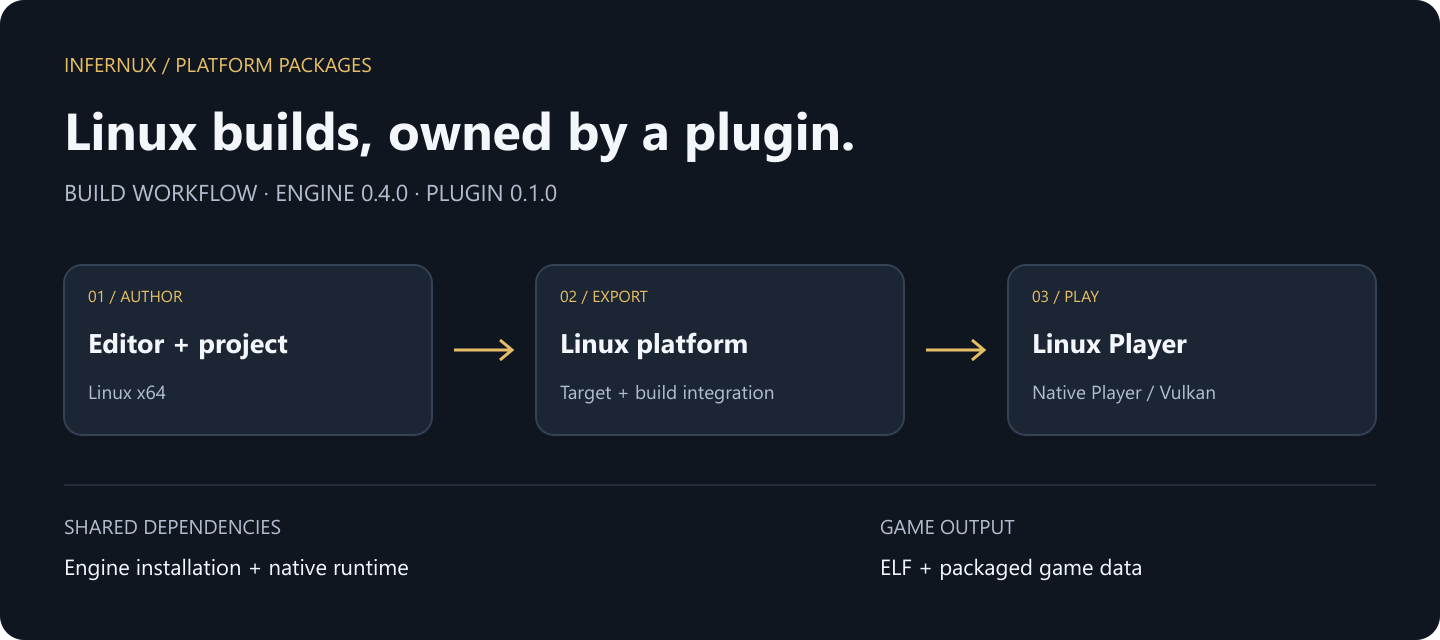
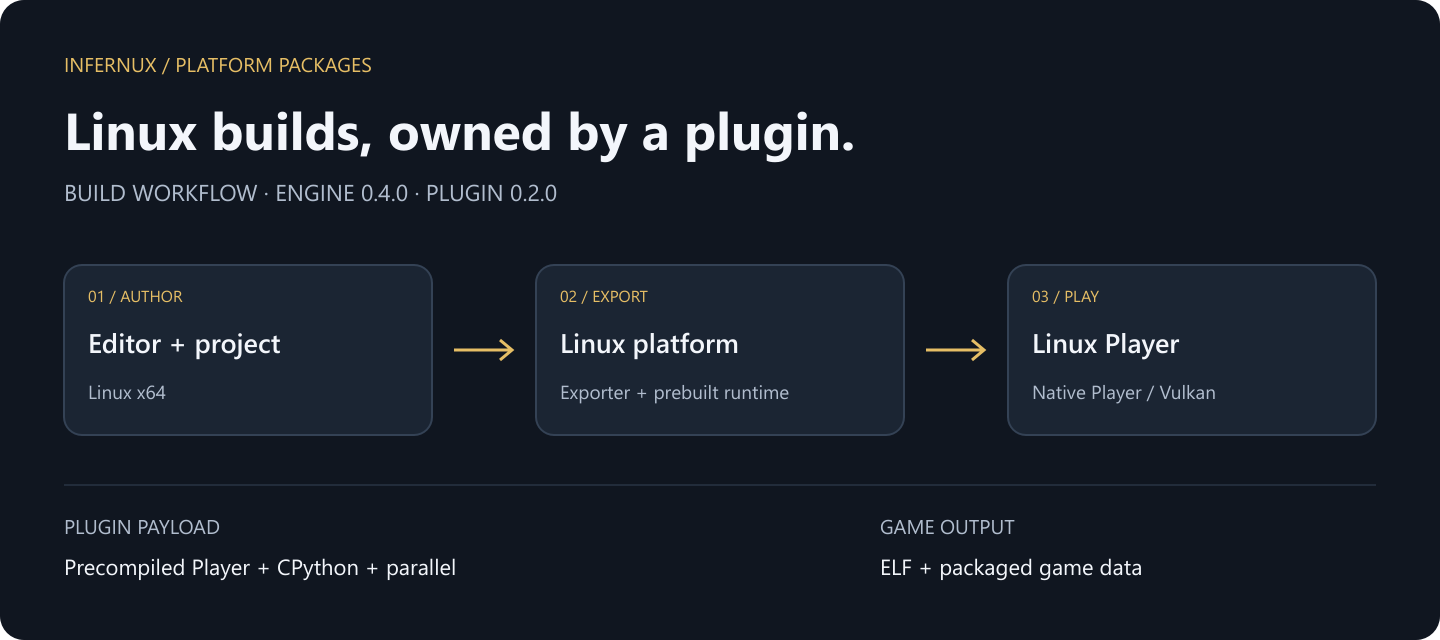
Ship CMake-owned precompiled Linux Player in platform package

diff --git a/release.py b/release.py
@@ -8,13 +8,43 @@ from pathlib import Path
 
 import package
 
+RUNTIME_ENGINE_VERSION = "0.4.0"
 
-def build_release(tag: str, output: Path | None = None) -> tuple[Path, Path]:
+
+def player_payload() -> tuple[Path, tuple[str, ...]]:
+    """Require the complete CMake-built payload before publishing a release."""
+    root = Path(__file__).resolve().parent
+    platform = json.loads((root / "package/inx_package.json").read_text(encoding="utf-8"))["reference"].rsplit("-", 1)[1]
+    payload = root / "package/editor" / f"infernux_{platform}" / "player"
+    document = json.loads((payload / "Player.inxmanifest").read_text(encoding="utf-8"))
+    expected = {
+        "engine_version": RUNTIME_ENGINE_VERSION,
+        "python_abi": "cp313",
+        "platform": "win32" if platform == "windows" else "linux",
+        "distribution": "platform-plugin",
+    }
+    if any(document.get(key) != value for key, value in expected.items()) or (
+        str(document.get("machine", "")).casefold() not in {"amd64", "x86_64"}
+    ):
+        raise ValueError("Player payload does not match the platform plugin's engine/ABI contract")
+    host = "InfernuxPlayerHost.exe" if platform == "windows" else "InfernuxPlayerHost"
+    for name, magic in (("Runtime.inxrt", b"INXPKG\0\0"), ("Parallel.inxmod", b"INXPKG\0\0"),
+                        (host, b"MZ" if platform == "windows" else b"\x7fELF")):
+        with (payload / name).open("rb") as source:
+            if source.read(len(magic)) != magic:
+                raise ValueError(f"Invalid precompiled Player payload: {name}")
+    return payload, ("Player.inxmanifest", "Runtime.inxrt", "Parallel.inxmod", host)
+
+
+def build_release(tag: str | None = None, output: Path | None = None) -> tuple[Path, Path]:
     root = Path(__file__).resolve().parent
     metadata = json.loads((root / "package/inx_package.json").read_text(encoding="utf-8"))
     expected = f"v{metadata['version']}"
+    if tag is None:
+        tag = expected
     if tag != expected:
         raise ValueError(f"Release tag must match package version: {expected}")
+    player_payload()
     destination = output if output is not None else root / "dist"
     destination.mkdir(parents=True, exist_ok=True)
     stem = metadata["reference"].replace("/", ".")
@@ -35,7 +65,7 @@ def build_release(tag: str, output: Path | None = None) -> tuple[Path, Path]:
 
 if __name__ == "__main__":
     parser = argparse.ArgumentParser(description=__doc__)
-    parser.add_argument("tag", help="v followed by package/inx_package.json version")
+    parser.add_argument("tag", nargs="?", help="v followed by package/inx_package.json version")
     arguments = parser.parse_args()
     for path in build_release(arguments.tag):
         print(path)

diff --git a/tests/test_release.py b/tests/test_release.py
@@ -4,11 +4,53 @@ import json
 from pathlib import Path
 import tempfile
 import unittest
+import shutil
+from unittest.mock import patch
 
 import release
 
 
 class ReleaseTests(unittest.TestCase):
+    def setUp(self):
+        self.workspace = tempfile.TemporaryDirectory()
+        self.addCleanup(self.workspace.cleanup)
+        self.root = Path(self.workspace.name) / "repository"
+        source = Path(__file__).resolve().parents[1]
+        shutil.copytree(source / "package", self.root / "package", ignore=shutil.ignore_patterns("player"))
+        self.payload = self.root / "package/editor/infernux_linux/player"
+        self.payload.mkdir()
+        (self.payload / "Player.inxmanifest").write_text(json.dumps({
+            "engine_version": release.RUNTIME_ENGINE_VERSION, "python_abi": "cp313",
+            "platform": "linux", "machine": "x86_64", "distribution": "platform-plugin",
+        }), encoding="utf-8")
+        for name in ("Runtime.inxrt", "Parallel.inxmod"):
+            (self.payload / name).write_bytes(b"INXPKG\0\0fixture")
+        (self.payload / "InfernuxPlayerHost").write_bytes(b"\x7fELFfixture")
+        for module in (release, release.package):
+            override = patch.object(module, "__file__", str(self.root / Path(module.__file__).name))
+            override.start()
+            self.addCleanup(override.stop)
+
+    def test_release_rejects_exporter_only_package(self):
+        (self.payload / "Runtime.inxrt").unlink()
+        with self.assertRaises(FileNotFoundError):
+            release.build_release("v0.2.0")
+        self.assertFalse((self.root / "dist").exists())
+
+    def test_release_rejects_wrong_engine_payload(self):
+        manifest = self.payload / "Player.inxmanifest"
+        document = json.loads(manifest.read_text())
+        document["engine_version"] = "0.3.7"
+        manifest.write_text(json.dumps(document), encoding="utf-8")
+        with self.assertRaisesRegex(ValueError, "engine/ABI"):
+            release.build_release("v0.2.0")
+
+    def test_cmake_entry_produces_only_the_final_inxpackage_and_manifest(self):
+        artifact, manifest = release.build_release()
+        self.assertEqual(set((self.root / "dist").iterdir()), {artifact, manifest})
+        self.assertEqual(artifact.suffix, ".inxpkg")
+        self.assertFalse(list(self.root.rglob("*.zip")))
+
     def test_package_and_manifest(self):
         root = Path(__file__).resolve().parents[1]
         source = json.loads((root / "package/inx_package.json").read_text(encoding="utf-8"))

diff --git a/package/editor/infernux_linux/exporter.py b/package/editor/infernux_linux/exporter.py
@@ -3,6 +3,7 @@
 from __future__ import annotations
 
 import sys
+from pathlib import Path
 
 from Infernux.engine.build.contracts import BuildTarget, PlatformExporter
 from Infernux.engine.build.host_player_export import (
@@ -40,13 +41,16 @@ class LinuxPlatformExporter(PlatformExporter):
             request,
             linux_target(),
             exporter_id=self.exporter_id,
+            player_runtime_root=str(Path(__file__).parent / "player"),
         )
 
     def create_plan(self, request):
         return create_host_player_plan(request)
 
     def execute(self, request, plan):
-        return execute_host_player_build(request, plan)
+        return execute_host_player_build(
+            request, plan, player_runtime_root=str(Path(__file__).parent / "player"),
+        )
 
 
 __all__ = ["LinuxPlatformExporter", "linux_target"]

diff --git a/README.md b/README.md
@@ -4,15 +4,15 @@
 
 ![Linux build workflow](package/plugin_pages/media/overview.png)
 
-Build Linux x64 Players using the native runtime shipped with the Linux engine wheel. This package registers the Linux exporter and delegates shared cooking and packaging to the engine.
+Build Linux x64 Players using the precompiled Player, CPython runtime and optional parallel module shipped in this plugin. Ordinary exports assemble these files with cooked project content; no engine checkout, CMake, or compiler SDK is required.
 
 ## At a glance
 
 | Item | Value |
 | --- | --- |
 | Package | `infernux/platform-linux` |
-| Plugin version | 0.1.0 |
-| Engine compatibility | >=0.4.0,<0.5 |
+| Plugin version | 0.2.0 |
+| Engine compatibility | ==0.4.0 |
 | Target | `linux-x64` |
 | Build host | Linux x64 |
 | Rendering | Native Player / Vulkan |
@@ -27,7 +27,7 @@ If your editor's bundled catalog predates this repository, add `https://github.c
 
 ## Requirements
 
-A Linux x64 installation of Infernux 0.4.0 with its native Player and Python 3.13 runtime pack. Running the game requires a working Vulkan driver and the platform libraries required by the engine.
+Infernux 0.4.0 for Linux x64 with Python 3.13. This plugin owns the matching precompiled Player payload. Running the game requires a working Vulkan driver and the platform libraries required by the engine.
 
 ## Host boundary
 
@@ -37,7 +37,7 @@ Linux builds Linux. This package does not cross-compile a Linux Player from Wind
 
 Distribute the complete game directory: native executable, runtime libraries and packaged content. Preserve the executable permission when transferring the Player. Cooked game content uses the engine's binary package rather than exposing the editable Assets/Library directory tree; this is not DRM.
 
-If the target is absent, confirm that the editor host is Linux x64 and the package is enabled. Missing native runtime files require repairing the engine installation. For a Player launch failure, check executable permissions, Vulkan availability and the reported missing system libraries.
+If the target is absent, confirm that the editor host is Linux x64 and the package is enabled. Missing or incompatible Player files require explicitly installing a compatible complete platform release through the plugin's Versions tab. For a Player launch failure, check executable permissions, Vulkan availability and the reported missing system libraries.
 
 ## Develop and package
 
@@ -56,7 +56,9 @@ README.zh-CN.md
 
 Run `python package.py dist/infernux.platform-linux.inxpkg` to package locally. This standalone script uses only Python's standard library and does not require an engine installation. Build outside package/, then place the files to ship inside package/ before packaging.
 
-Maintainers run `python release.py v0.1.0` to create the archive and its release manifest. Pushing a matching version tag publishes both files through GitHub Actions. The editor uses that manifest to select a compatible release.
+Maintainers build the engine's `linux-clang-player` CMake preset. It produces the payload directly in this repository's `package/editor/infernux_linux/player/` and the final `.inxpkg` plus release manifest in `dist/`. Release CI builds this exact plugin revision with the matching engine release line on a Linux host. There is no intermediate runtime ZIP or separate archive-transfer channel.
+
+Maintainers run `python release.py v0.2.0` to create the archive and its release manifest. Pushing a matching version tag publishes both files through GitHub Actions. The editor uses that manifest to select a compatible release.
 
 ## License
 

diff --git a/README.zh-CN.md b/README.zh-CN.md
@@ -4,15 +4,15 @@
 
 ![Linux 构建流程](package/plugin_pages/media/overview.png)
 
-使用 Linux 引擎 wheel 中的原生运行时构建 Linux x64 Player。插件负责注册 Linux 导出器，公共 cook 与打包流程由引擎提供。
+插件携带预编译 Linux Player、CPython 运行时和可选并行模块。普通导出只组装这些文件和项目 cook 内容，不需要引擎源码、CMake 或编译工具链。
 
 ## 基本信息
 
 | 项目 | 内容 |
 | --- | --- |
 | 包标识 | `infernux/platform-linux` |
-| 插件版本 | 0.1.0 |
-| 引擎兼容范围 | >=0.4.0,<0.5 |
+| 插件版本 | 0.2.0 |
+| 引擎兼容范围 | ==0.4.0 |
 | 构建目标 | `linux-x64` |
 | 构建宿主 | Linux x64 |
 
@@ -26,7 +26,7 @@
 
 ## 环境要求
 
-Linux x64 的 Infernux 0.4.0，包含原生 Player 和 Python 3.13 运行时包。运行游戏需要可用的 Vulkan 驱动和引擎要求的平台库。
+Linux x64 的 Infernux 0.4.0（Python 3.13）。对应的预编译 Player 载荷由本插件提供。运行游戏需要可用的 Vulkan 驱动和引擎要求的平台库。
 
 ## 宿主边界
 
@@ -36,7 +36,7 @@ Linux 构建 Linux。此包不提供从 Windows 交叉编译 Linux Player 的能
 
 分发完整的游戏目录，包括原生可执行文件、运行库和打包内容；传输时保留可执行权限。cook 后的内容进入引擎二进制包，不直接暴露可编辑的 Assets/Library 目录树；这不是 DRM。
 
-目标未出现时检查编辑器是否运行在 Linux x64，以及插件是否启用。原生运行时缺失需修复引擎安装。Player 启动失败时，检查可执行权限、Vulkan 驱动和报错指出的系统库。
+目标未出现时检查编辑器是否运行在 Linux x64，以及插件是否启用。Player 载荷缺失或不兼容时，通过插件的版本页显式安装兼容的完整平台制品。Player 启动失败时，检查可执行权限、Vulkan 驱动和报错指出的系统库。
 
 ## 开发与打包
 
@@ -55,7 +55,9 @@ README.zh-CN.md
 
 运行 `python package.py dist/infernux.platform-linux.inxpkg` 本地打包。脚本仅使用 Python 标准库，不需要导入或安装 Infernux。在外层进行构建，最后将需要交付的文件放进 package/ 即可。
 
-维护者运行 `python release.py v0.1.0` 生成插件和发布清单；推送与插件版本一致的标签后，由 GitHub Actions 打包并上传两个文件。编辑器根据发布清单选择兼容版本。
+维护者构建引擎的 `linux-clang-player` CMake preset。它直接将载荷产出到本仓库的 `package/editor/infernux_linux/player/`，将最终 `.inxpkg` 和发布清单产出到 `dist/`。发布 CI 在 Linux 宿主上，用对应引擎发布线构建本插件的精确版本；不生成或传递中间运行时 ZIP，也没有独立压缩包中转渠道。
+
+维护者运行 `python release.py v0.2.0` 生成插件和发布清单；推送与插件版本一致的标签后，由 GitHub Actions 打包并上传两个文件。编辑器根据发布清单选择兼容版本。
 
 ## 许可证
 

diff --git a/package/plugin_pages/usage.md b/package/plugin_pages/usage.md
@@ -2,11 +2,11 @@
 
 ![Build workflow](media/overview.png)
 
-Build Linux x64 Players using the native runtime shipped with the Linux engine wheel. This package registers the Linux exporter and delegates shared cooking and packaging to the engine.
+Build Linux x64 Players using the precompiled Player, CPython runtime and optional parallel module shipped in this plugin. Ordinary exports assemble these files with cooked project content; no engine checkout, CMake, or compiler SDK is required.
 
 ## Before building
 
-A Linux x64 installation of Infernux 0.4.0 with its native Player and Python 3.13 runtime pack. Running the game requires a working Vulkan driver and the platform libraries required by the engine.
+Infernux 0.4.0 for Linux x64 with Python 3.13. This plugin owns the matching precompiled Player payload. Running the game requires a working Vulkan driver and the platform libraries required by the engine.
 
 ## Host boundary
 
@@ -16,4 +16,4 @@ Linux builds Linux. This package does not cross-compile a Linux Player from Wind
 
 Distribute the complete game directory: native executable, runtime libraries and packaged content. Preserve the executable permission when transferring the Player. Cooked game content uses the engine's binary package rather than exposing the editable Assets/Library directory tree; this is not DRM.
 
-If the target is absent, confirm that the editor host is Linux x64 and the package is enabled. Missing native runtime files require repairing the engine installation. For a Player launch failure, check executable permissions, Vulkan availability and the reported missing system libraries.
+If the target is absent, confirm that the editor host is Linux x64 and the package is enabled. Missing or incompatible Player files require explicitly installing a compatible complete platform release through the plugin's Versions tab. For a Player launch failure, check executable permissions, Vulkan availability and the reported missing system libraries.

diff --git a/package/plugin_pages/usage.zh-CN.md b/package/plugin_pages/usage.zh-CN.md
@@ -2,11 +2,11 @@
 
 ![构建流程](media/overview.png)
 
-使用 Linux 引擎 wheel 中的原生运行时构建 Linux x64 Player。插件负责注册 Linux 导出器，公共 cook 与打包流程由引擎提供。
+插件携带预编译 Linux Player、CPython 运行时和可选并行模块。普通导出只组装这些文件和项目 cook 内容，不需要引擎源码、CMake 或编译工具链。
 
 ## 构建前准备
 
-Linux x64 的 Infernux 0.4.0，包含原生 Player 和 Python 3.13 运行时包。运行游戏需要可用的 Vulkan 驱动和引擎要求的平台库。
+Linux x64 的 Infernux 0.4.0（Python 3.13）。对应的预编译 Player 载荷由本插件提供。运行游戏需要可用的 Vulkan 驱动和引擎要求的平台库。
 
 ## 宿主边界
 
@@ -16,4 +16,4 @@ Linux 构建 Linux。此包不提供从 Windows 交叉编译 Linux Player 的能
 
 分发完整的游戏目录，包括原生可执行文件、运行库和打包内容；传输时保留可执行权限。cook 后的内容进入引擎二进制包，不直接暴露可编辑的 Assets/Library 目录树；这不是 DRM。
 
-目标未出现时检查编辑器是否运行在 Linux x64，以及插件是否启用。原生运行时缺失需修复引擎安装。Player 启动失败时，检查可执行权限、Vulkan 驱动和报错指出的系统库。
+目标未出现时检查编辑器是否运行在 Linux x64，以及插件是否启用。Player 载荷缺失或不兼容时，通过插件的版本页显式安装兼容的完整平台制品。Player 启动失败时，检查可执行权限、Vulkan 驱动和报错指出的系统库。

diff --git a/RELEASE_NOTES.md b/RELEASE_NOTES.md
@@ -1,13 +1,15 @@
-# Infernux Linux Platform 0.1.0
+# Infernux Linux Platform 0.2.0
 
-Official platform package for Infernux >=0.4.0,<0.5.
+Official platform package for Infernux ==0.4.0.
 
+- Ships the CMake-precompiled native Player, CPython runtime and optional parallel module in the plugin.
+- Removes source checkout, CMake and engine compilation from ordinary game export.
 - Registers linux-x64 and its platform build integration.
 - Includes English and Simplified Chinese documentation with a build workflow illustration.
 - Ships an installable InxPackage and the engine's compatible-release manifest.
 
 ## Requirements
 
-A Linux x64 installation of Infernux 0.4.0 with its native Player and Python 3.13 runtime pack. Running the game requires a working Vulkan driver and the platform libraries required by the engine.
+Infernux 0.4.0 for Linux x64 with Python 3.13. This plugin owns the matching precompiled Player payload. Running the game requires a working Vulkan driver and the platform libraries required by the engine.
 
 Download the .inxpkg asset to install the plugin. The automatic source archives are for plugin development. See the README for setup, output and troubleshooting details.
